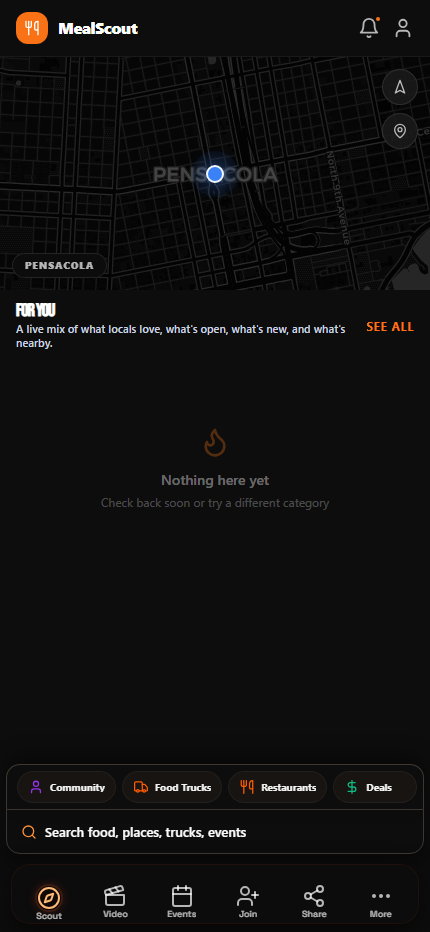
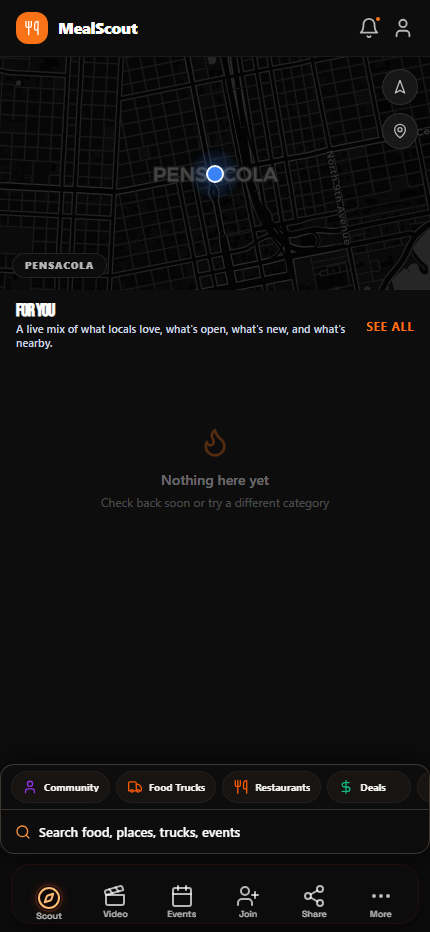
Remove scout prototype dock width constraint for full mobile frame

Changed region(s): [[0.0, 0.809, 0.7256, 0.9024], [0.786, 0.8401, 0.907, 0.8712], [0.9977, 0.809, 1.0, 0.9024]]

diff --git a/client/src/pages/scout-prototype.tsx b/client/src/pages/scout-prototype.tsx
@@ -551,7 +551,7 @@ export default function ScoutPrototype() {
 
       {/* ── Unified Scout bottom control dock ── */}
       <div className="fixed inset-x-0 z-[1000] pointer-events-none" style={{ bottom: scoutDockBottom }}>
-        <div className="mx-auto w-full max-w-[480px] px-1.5 pointer-events-auto">
+        <div className="w-full px-0 pointer-events-auto">
           <div className="rounded-t-[14px] border border-b-0 border-white/6 bg-[#0f0d0b]/92 backdrop-blur-2xl shadow-[0_-8px_20px_rgba(0,0,0,0.42)]">
             <div className="flex gap-1.5 overflow-x-auto no-scrollbar px-2.5 py-1.5">
               {EXPLORE_TILES.map(tile => {
